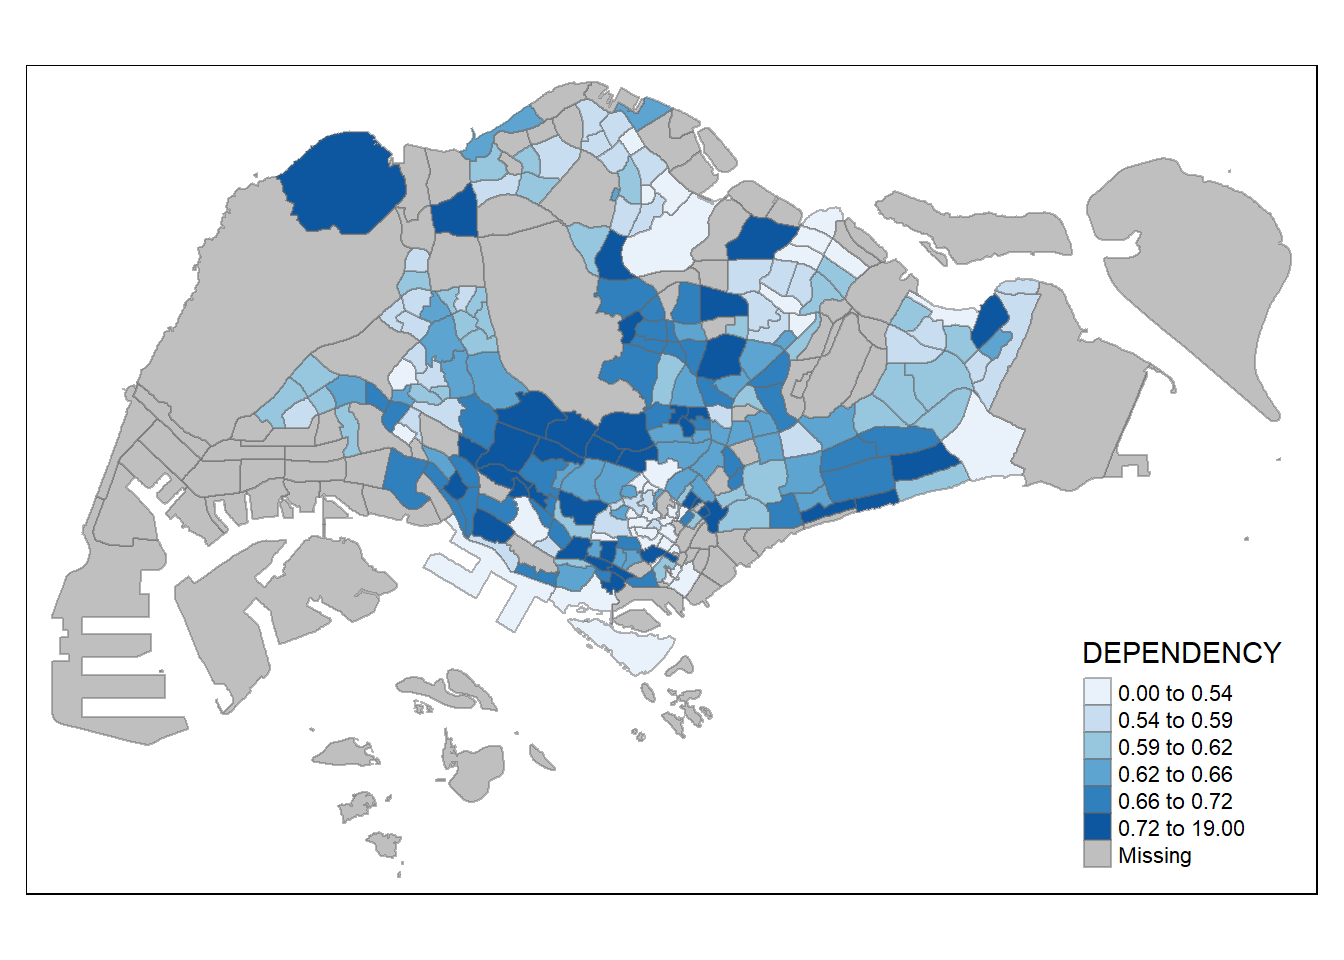
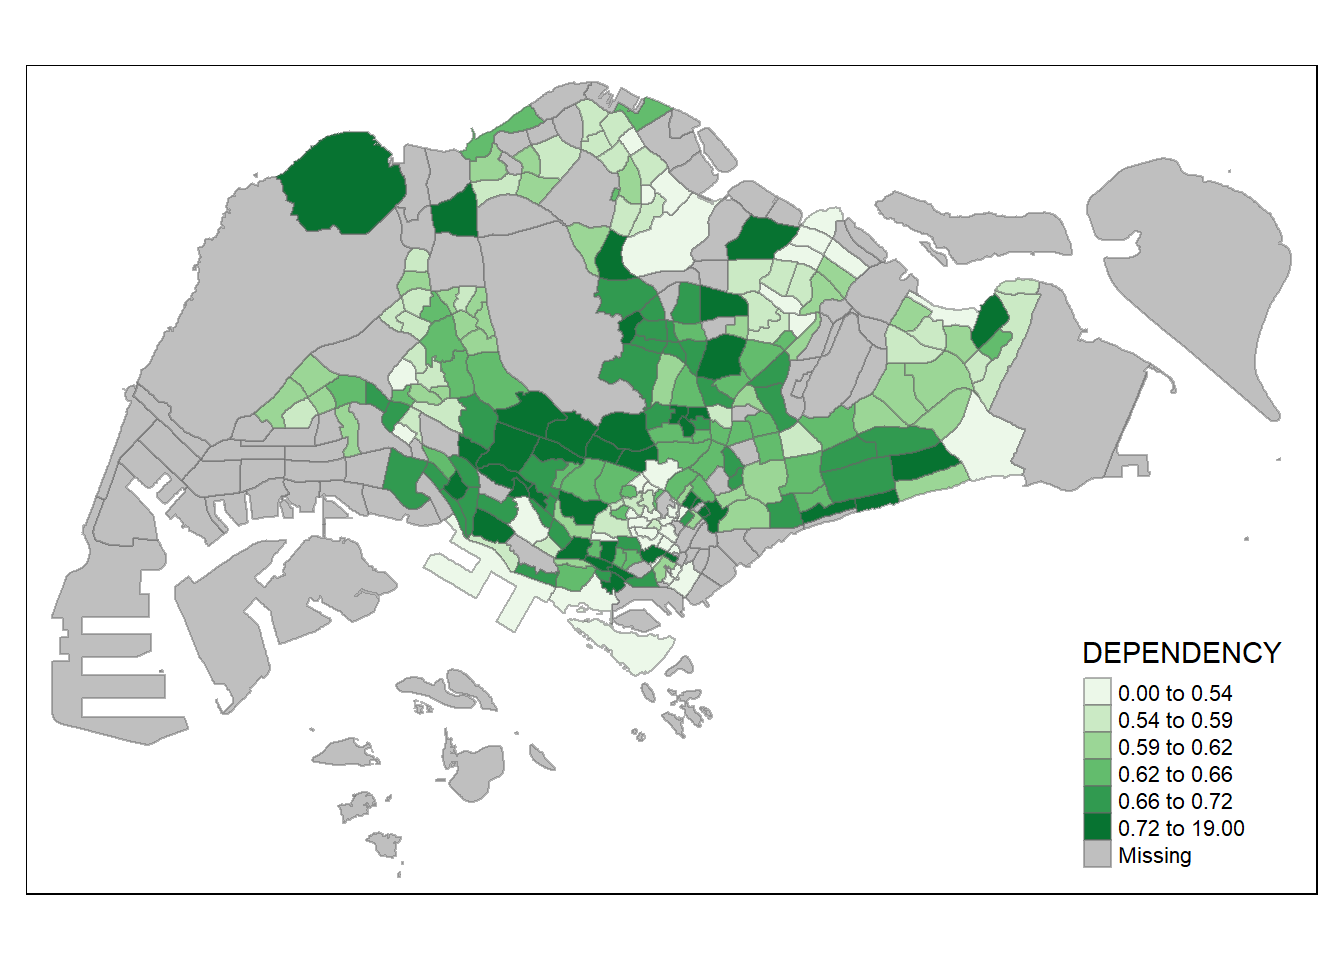
Updated 2.4.4

Changed region(s): [[0.1875, 0.0938, 0.7812, 0.625], [0.7812, 0.7188, 0.8438, 0.875]]

diff --git a/_site/Hands-on_Ex/Hands-on_Ex02/hands_on2.html b/_site/Hands-on_Ex/Hands-on_Ex02/hands_on2.html
@@ -771,7 +771,7 @@ First 10 features:
 <span id="cb32-3"><a href="#cb32-3" aria-hidden="true" tabindex="-1"></a>    <span class="st">"DEPENDENCY"</span>,</span>
 <span id="cb32-4"><a href="#cb32-4" aria-hidden="true" tabindex="-1"></a>    <span class="at">n =</span> <span class="dv">6</span>,</span>
 <span id="cb32-5"><a href="#cb32-5" aria-hidden="true" tabindex="-1"></a>    <span class="at">style =</span> <span class="st">"quantile"</span>,</span>
-<span id="cb32-6"><a href="#cb32-6" aria-hidden="true" tabindex="-1"></a>    <span class="at">palette =</span> <span class="st">"Blues"</span></span>
+<span id="cb32-6"><a href="#cb32-6" aria-hidden="true" tabindex="-1"></a>    <span class="at">palette =</span> <span class="st">"Greens"</span></span>
 <span id="cb32-7"><a href="#cb32-7" aria-hidden="true" tabindex="-1"></a>  ) <span class="sc">+</span></span>
 <span id="cb32-8"><a href="#cb32-8" aria-hidden="true" tabindex="-1"></a>  <span class="fu">tm_borders</span>(<span class="at">alpha =</span> <span class="fl">0.5</span>)</span></code><button title="Copy to Clipboard" class="code-copy-button"><i class="bi"></i></button></pre></div>
 <div class="cell-output-display">
@@ -1026,7 +1026,7 @@ therefore deprecated</code></pre>
 <h3 class="anchored" data-anchor-id="mapping-spatial-object-meeting-a-selection-criterion">2.4.7 Mapping Spatial Object Meeting a Selection Criterion</h3>
 <p>Instead of creating small multiple choropleth map, you can also use selection function to map spatial objects meeting the selection criterion.</p>
 <div class="cell">
-<div class="sourceCode cell-code" id="cb46"><pre class="sourceCode r code-with-copy"><code class="sourceCode r"><span id="cb46-1"><a href="#cb46-1" aria-hidden="true" tabindex="-1"></a><span class="fu">tm_shape</span>(mpsz_pop2020[mpsz_pop2020<span class="sc">$</span>REGION_N <span class="sc">==</span> <span class="st">"EAST REGION"</span>, ]) <span class="sc">+</span></span>
+<div class="sourceCode cell-code" id="cb46"><pre class="sourceCode r code-with-copy"><code class="sourceCode r"><span id="cb46-1"><a href="#cb46-1" aria-hidden="true" tabindex="-1"></a><span class="fu">tm_shape</span>(mpsz_pop2020[mpsz_pop2020<span class="sc">$</span>REGION_N <span class="sc">==</span> <span class="st">"CENTRAL REGION"</span>, ]) <span class="sc">+</span></span>
 <span id="cb46-2"><a href="#cb46-2" aria-hidden="true" tabindex="-1"></a>  <span class="fu">tm_fill</span>(</span>
 <span id="cb46-3"><a href="#cb46-3" aria-hidden="true" tabindex="-1"></a>    <span class="st">"DEPENDENCY"</span>, </span>
 <span id="cb46-4"><a href="#cb46-4" aria-hidden="true" tabindex="-1"></a>    <span class="at">style =</span> <span class="st">"quantile"</span>, </span>
